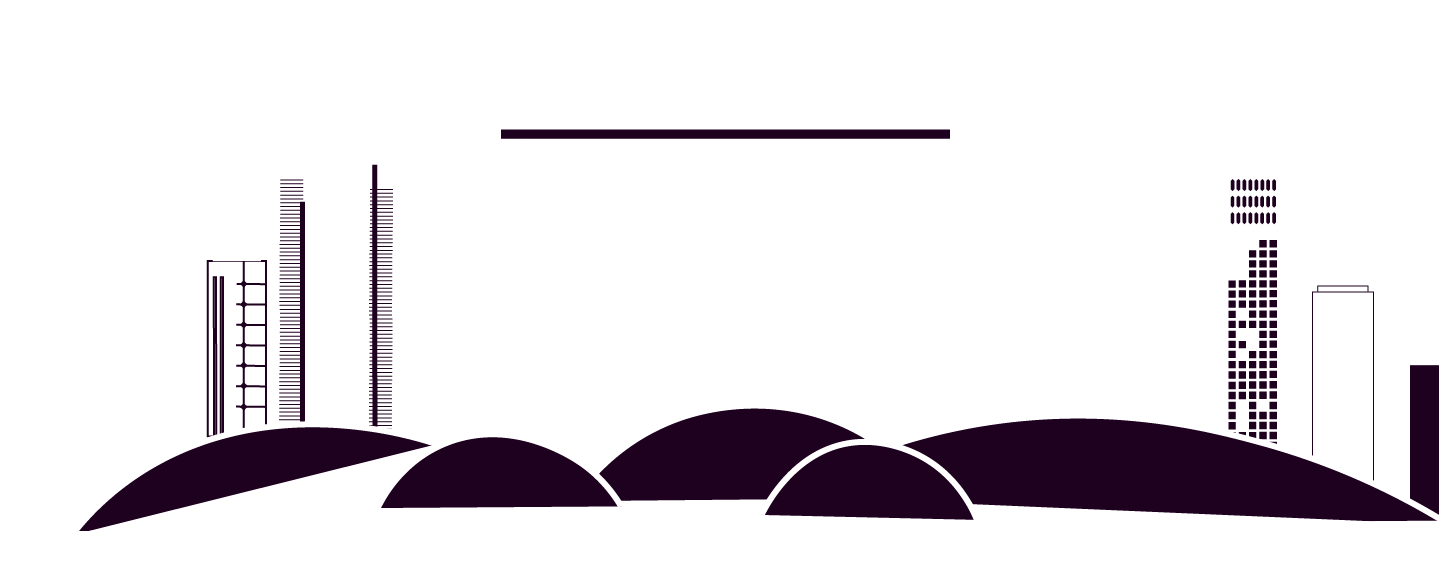
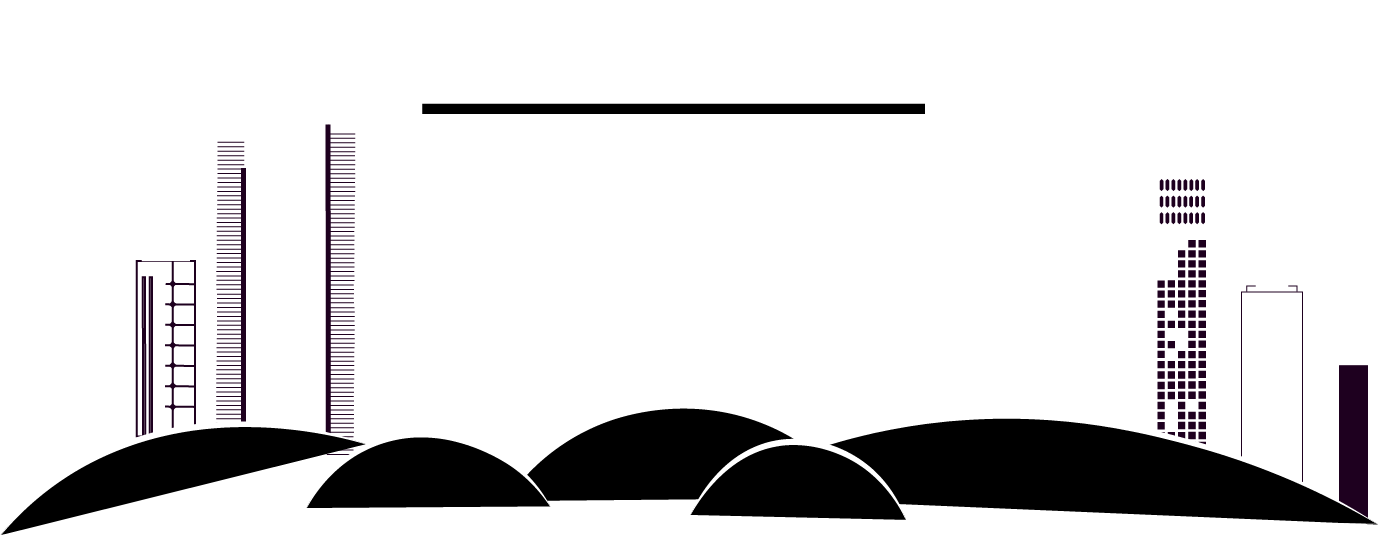
Make cover image responsive

Changed region(s): [[0.0, 0.2393, 0.9985, 1.0], [0.2808, 0.1794, 0.6865, 0.2692], [0.9673, 0.628, 0.9985, 0.6879]]

diff --git a/themes/hugo-creative-theme/layouts/partials/hero.html b/themes/hugo-creative-theme/layouts/partials/hero.html
@@ -10,7 +10,10 @@
             {{ with .Site.Params.hero.buttonText }}
                 <a href="#" class="btn btn-primary btn-xl register-btn">{{ . }}</a>
             {{ end }}
-            <img class="cover-img" src="../../img/header.jpg" />
+            <div class="cover-img">
+              <img class="img-responsive" src="../../img/header.jpg" />
+            </div>
+
         </div>
     </div>
 </header>

diff --git a/themes/hugo-creative-theme/static/css/creative.css b/themes/hugo-creative-theme/static/css/creative.css
@@ -217,7 +217,7 @@ aside, #credits {
 
 .cover-img {
     width: auto;
-    height: 330px;
+    /**height: 300px;**/
     display: block;
     margin: 0 auto;
 }
